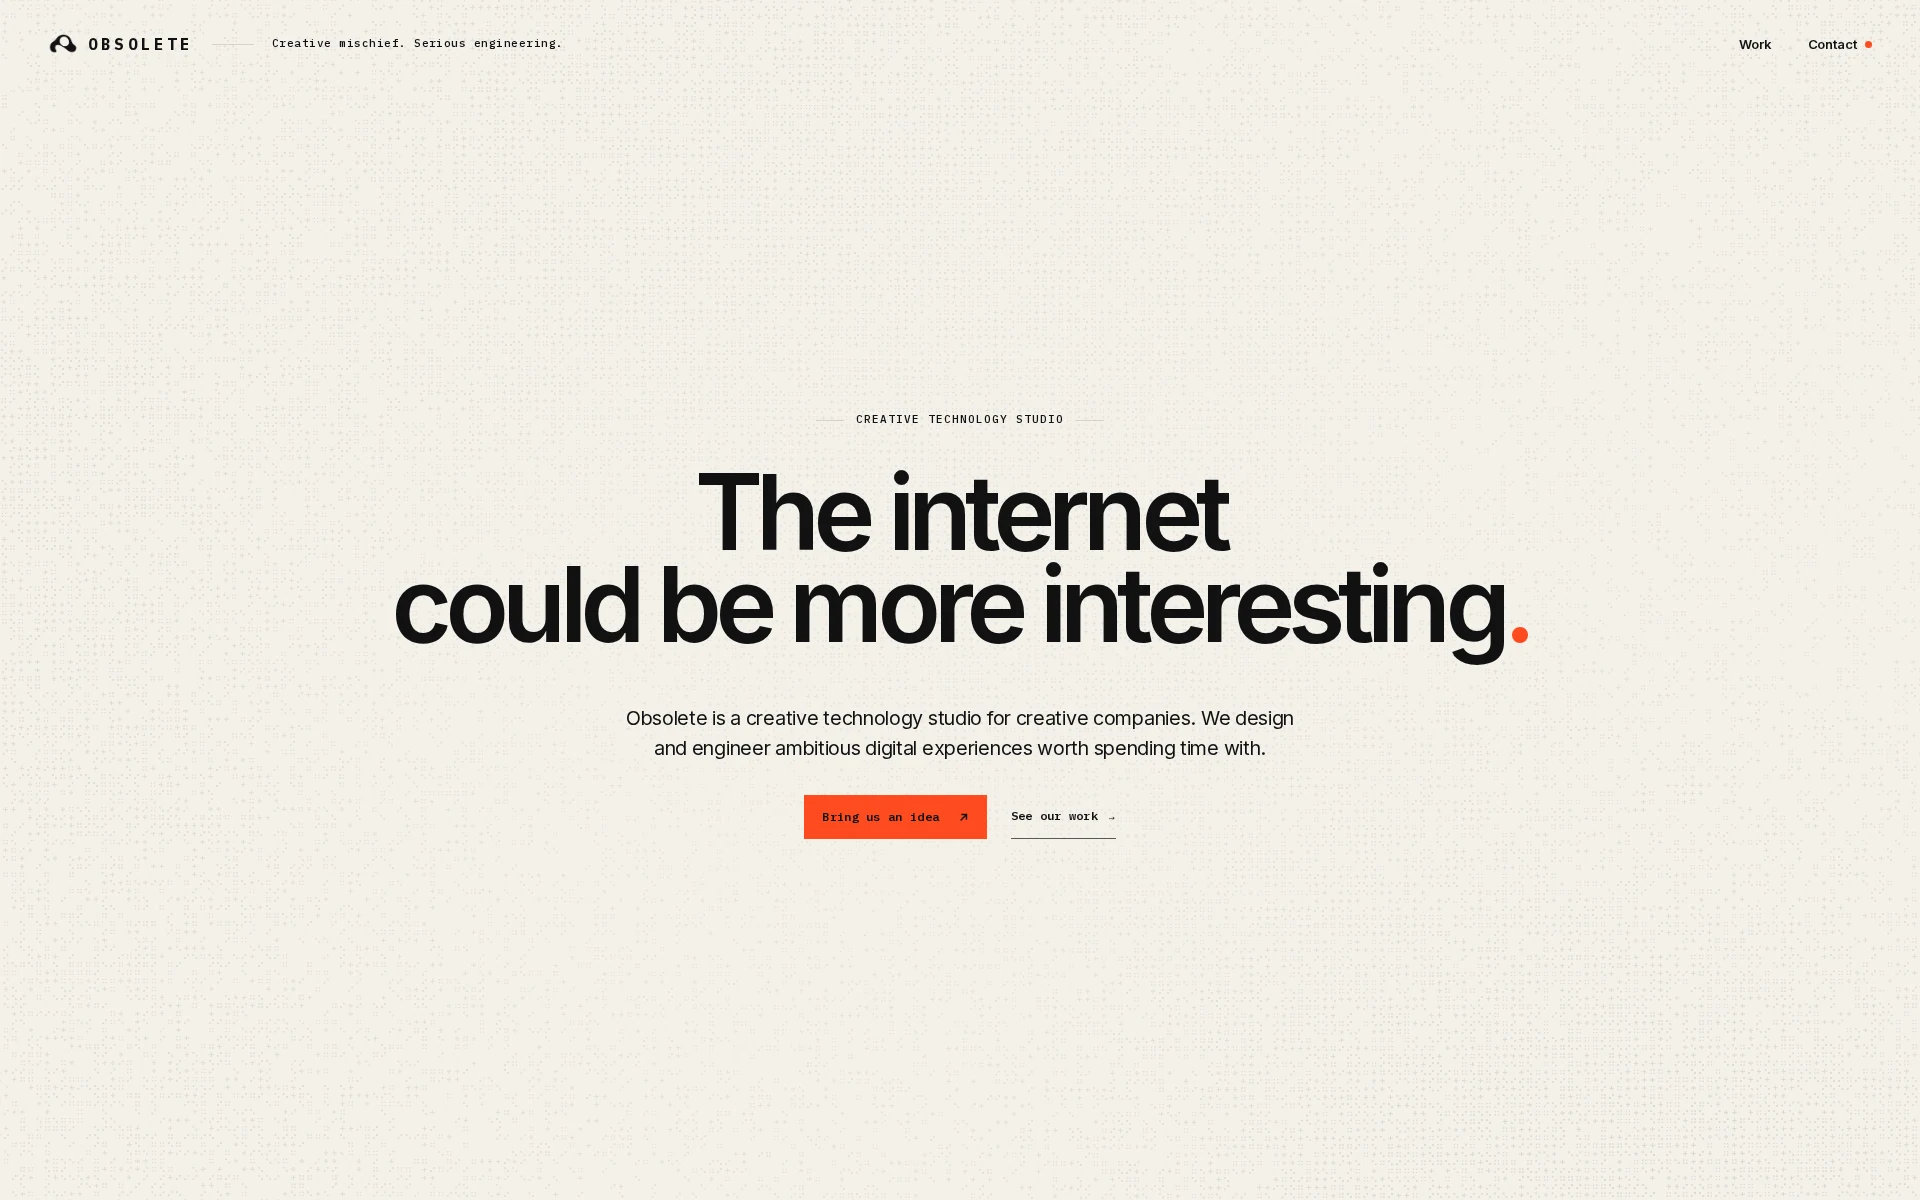
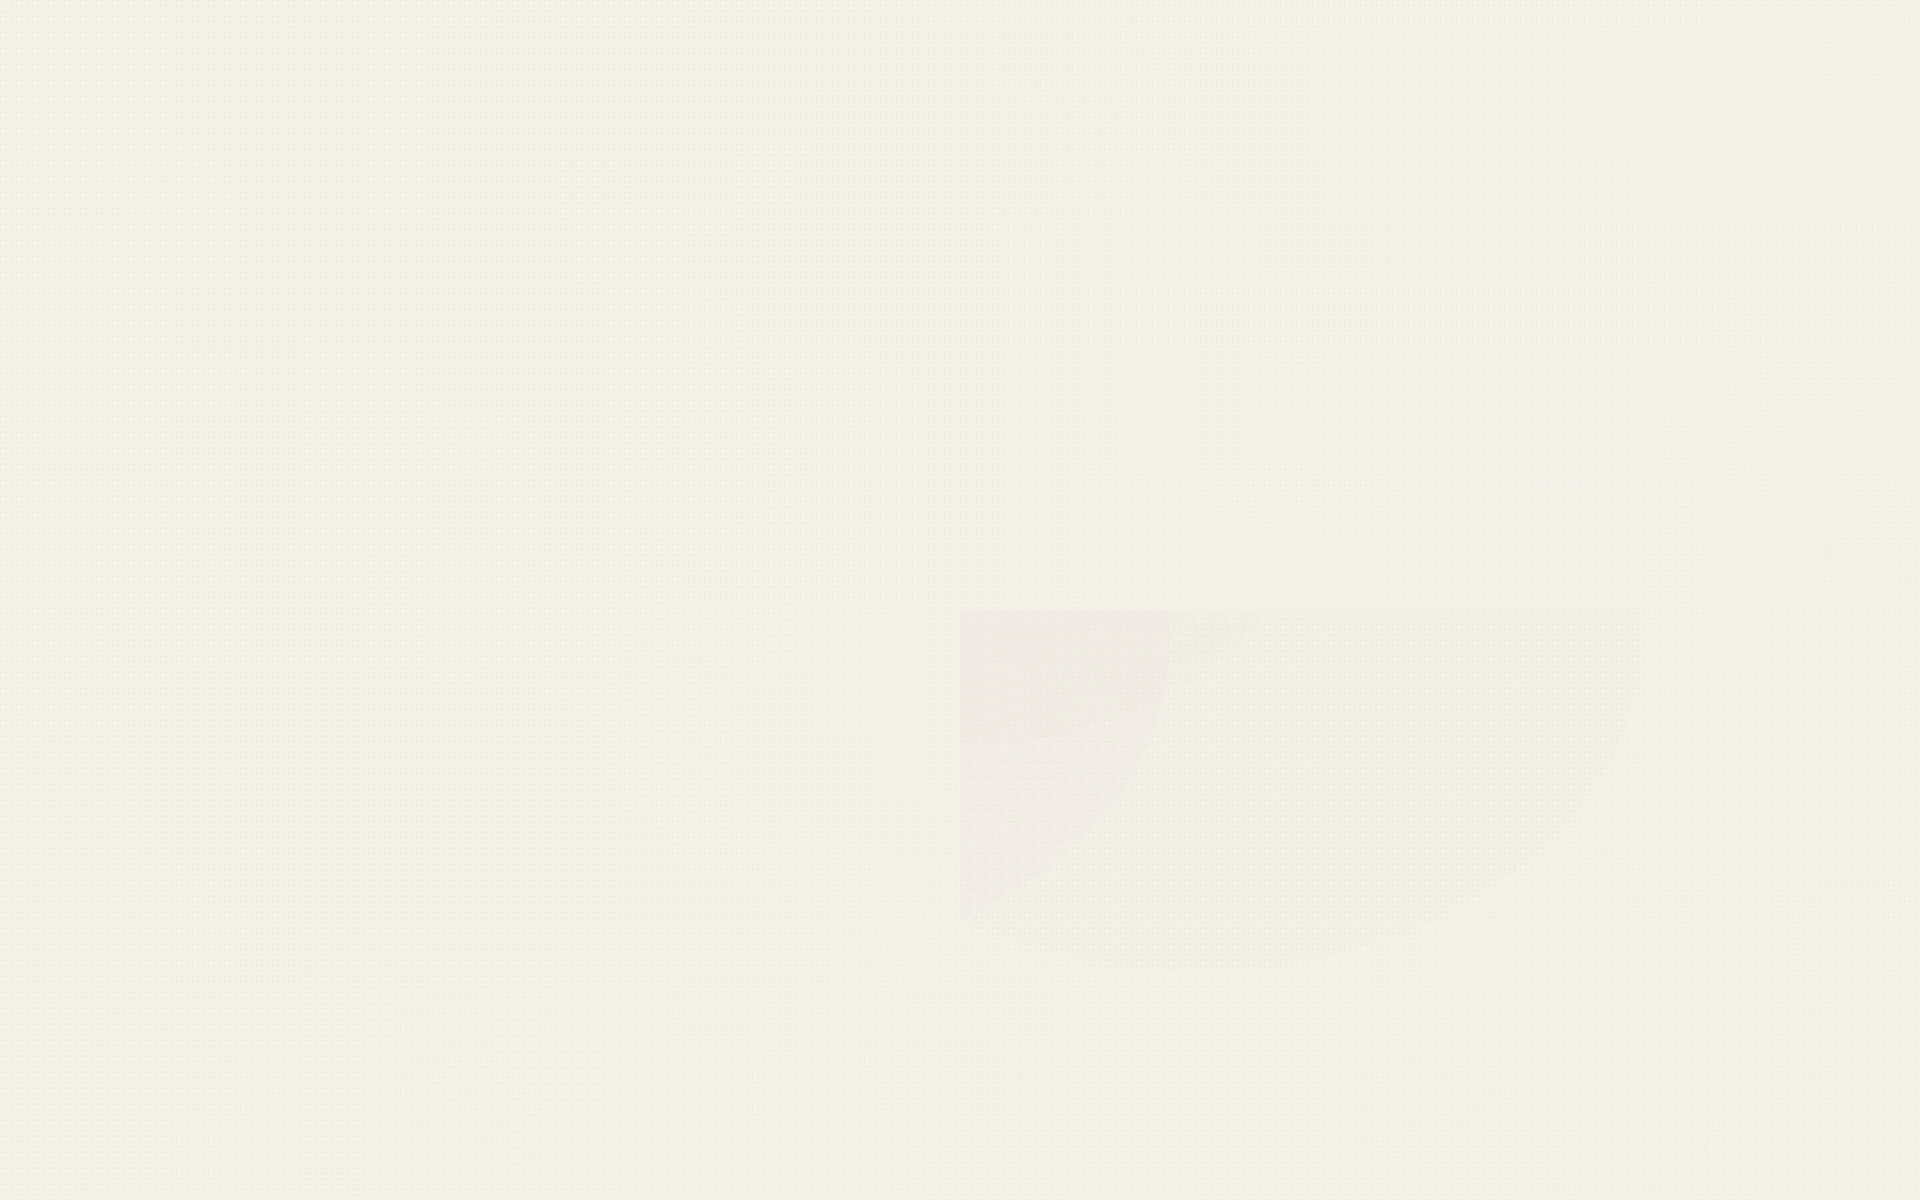
Restore clean static hero fallback (#8)

diff --git a/tests/homepage-hero.spec.ts b/tests/homepage-hero.spec.ts
@@ -20,6 +20,28 @@ const expectNoHorizontalOverflow = async (page: Page) => {
   expect(widths.scroll).toBeLessThanOrEqual(widths.client);
 };
 
+const expectCurrentHeroComposition = async (page: Page) => {
+  const hero = getHero(page);
+  const heading = page.getByRole('heading', { level: 1, name: title });
+  const lead = hero.locator('.hero__lead');
+  const actions = hero.locator('.hero__actions');
+  const primaryAction = hero.getByRole('link', { name: 'Bring us an idea' });
+  const secondaryAction = hero.getByRole('link', { name: 'See our work' });
+
+  await expect(heading).toHaveCount(1);
+  await expect(heading).toBeVisible();
+  await expect(lead).toHaveText(
+    'Obsolete designs and builds custom websites and digital products for creative companies, with creative direction, design, and engineering held by one team from idea to launch.',
+  );
+  await expect(lead).toBeVisible();
+  await expect(actions).toHaveCount(1);
+  await expect(actions).toBeVisible();
+  await expect(primaryAction).toBeVisible();
+  await expect(primaryAction).toHaveAttribute('href', '/contact#project-inquiry');
+  await expect(secondaryAction).toBeVisible();
+  await expect(secondaryAction).toHaveAttribute('href', '/work');
+};
+
 const compareScreenshots = (page: Page, first: Uint8Array, second: Uint8Array) =>
   page.evaluate(
     async ([firstEncoded, secondEncoded]) => {
@@ -123,23 +145,8 @@ test('preserves the approved proposition, actions, and stable masthead', async (
 
   const hero = getHero(page);
   await expect(hero).toBeVisible();
-  await expect(page.getByRole('heading', { level: 1, name: title })).toHaveCount(1);
+  await expectCurrentHeroComposition(page);
   await expect(hero.getByText('Creative technology studio', { exact: true })).toBeVisible();
-  await expect(
-    hero.getByText(
-      /designs and builds custom websites and digital products for creative companies/iu,
-    ),
-  ).toBeVisible();
-  await expect(
-    hero.getByText(
-      /creative direction, design, and engineering held by one team from idea to launch/iu,
-    ),
-  ).toBeVisible();
-  await expect(hero.getByRole('link', { name: 'Bring us an idea' })).toHaveAttribute(
-    'href',
-    '/contact#project-inquiry',
-  );
-  await expect(hero.getByRole('link', { name: 'See our work' })).toHaveAttribute('href', '/work');
   await expect(hero.getByRole('img')).toHaveCount(0);
 
   const header = page.getByRole('banner', { name: 'Site header' });
@@ -274,6 +281,21 @@ for (const viewport of [
   });
 }
 
+test('keeps interface content out of the decorative poster artwork', async ({ page }) => {
+  await page.setViewportSize({ width: 1440, height: 900 });
+  await page.emulateMedia({ reducedMotion: 'reduce' });
+  await page.goto('/');
+  await page.addStyleTag({
+    content:
+      'header, .hero__content, .hero__canvas, .hero__pointer-dot { visibility: hidden !important; }',
+  });
+
+  await expect(getHero(page).locator('[data-fluid-poster]')).toHaveScreenshot(
+    'hero-warm-paper-artwork.png',
+    { animations: 'disabled', maxDiffPixelRatio: 0.005 },
+  );
+});
+
 test('reflows at 200% text size without hiding content or actions', async ({ page }) => {
   await page.setViewportSize({ width: 768, height: 1100 });
   await page.goto('/');
@@ -305,7 +327,7 @@ test('keeps the poster and complete hero available without JavaScript', async ({
   const hero = getHero(page);
   await expect(hero).toBeVisible();
   await expect(hero.locator('[data-fluid-poster]')).toBeVisible();
-  await expect(hero.getByRole('link', { name: 'Bring us an idea' })).toBeVisible();
+  await expectCurrentHeroComposition(page);
   await context.close();
 });
 
@@ -317,6 +339,7 @@ test('uses a static, non-interactive symbol field for reduced motion', async ({ 
   await expect(hero.locator('[data-fluid-poster]')).toBeVisible();
   await expect(hero).toHaveAttribute('data-fluid-state', 'static');
   await expect(hero.locator('[data-fluid-pointer-dot]')).toBeHidden();
+  await expectCurrentHeroComposition(page);
 
   const before = await page.screenshot();
   await page.mouse.move(100, 400);
@@ -343,7 +366,7 @@ test('falls back without errors when WebGL is unavailable', async ({ page }) => 
   const hero = getHero(page);
   await expect(hero).toHaveAttribute('data-fluid-state', 'fallback');
   await expect(hero.locator('[data-fluid-poster]')).toBeVisible();
-  await expect(page.getByRole('heading', { level: 1, name: title })).toBeVisible();
+  await expectCurrentHeroComposition(page);
   expect(errors).toEqual([]);
 });
 
@@ -508,6 +531,7 @@ test('pauses GPU draws after the hero leaves the viewport and while the document
 test('keeps decorative layers out of the tab order and shows keyboard focus', async ({ page }) => {
   await page.goto('/');
   const hero = getHero(page);
+  await expect(hero.locator('.hero__backdrop')).toHaveAttribute('aria-hidden', 'true');
   await expect(hero.locator('canvas')).not.toHaveAttribute('tabindex', /.+/u);
   await expect(hero.locator('[data-fluid-poster]')).toHaveAttribute('alt', '');
   await expect(hero.locator('[data-fluid-pointer-dot]')).toHaveAttribute('aria-hidden', 'true');